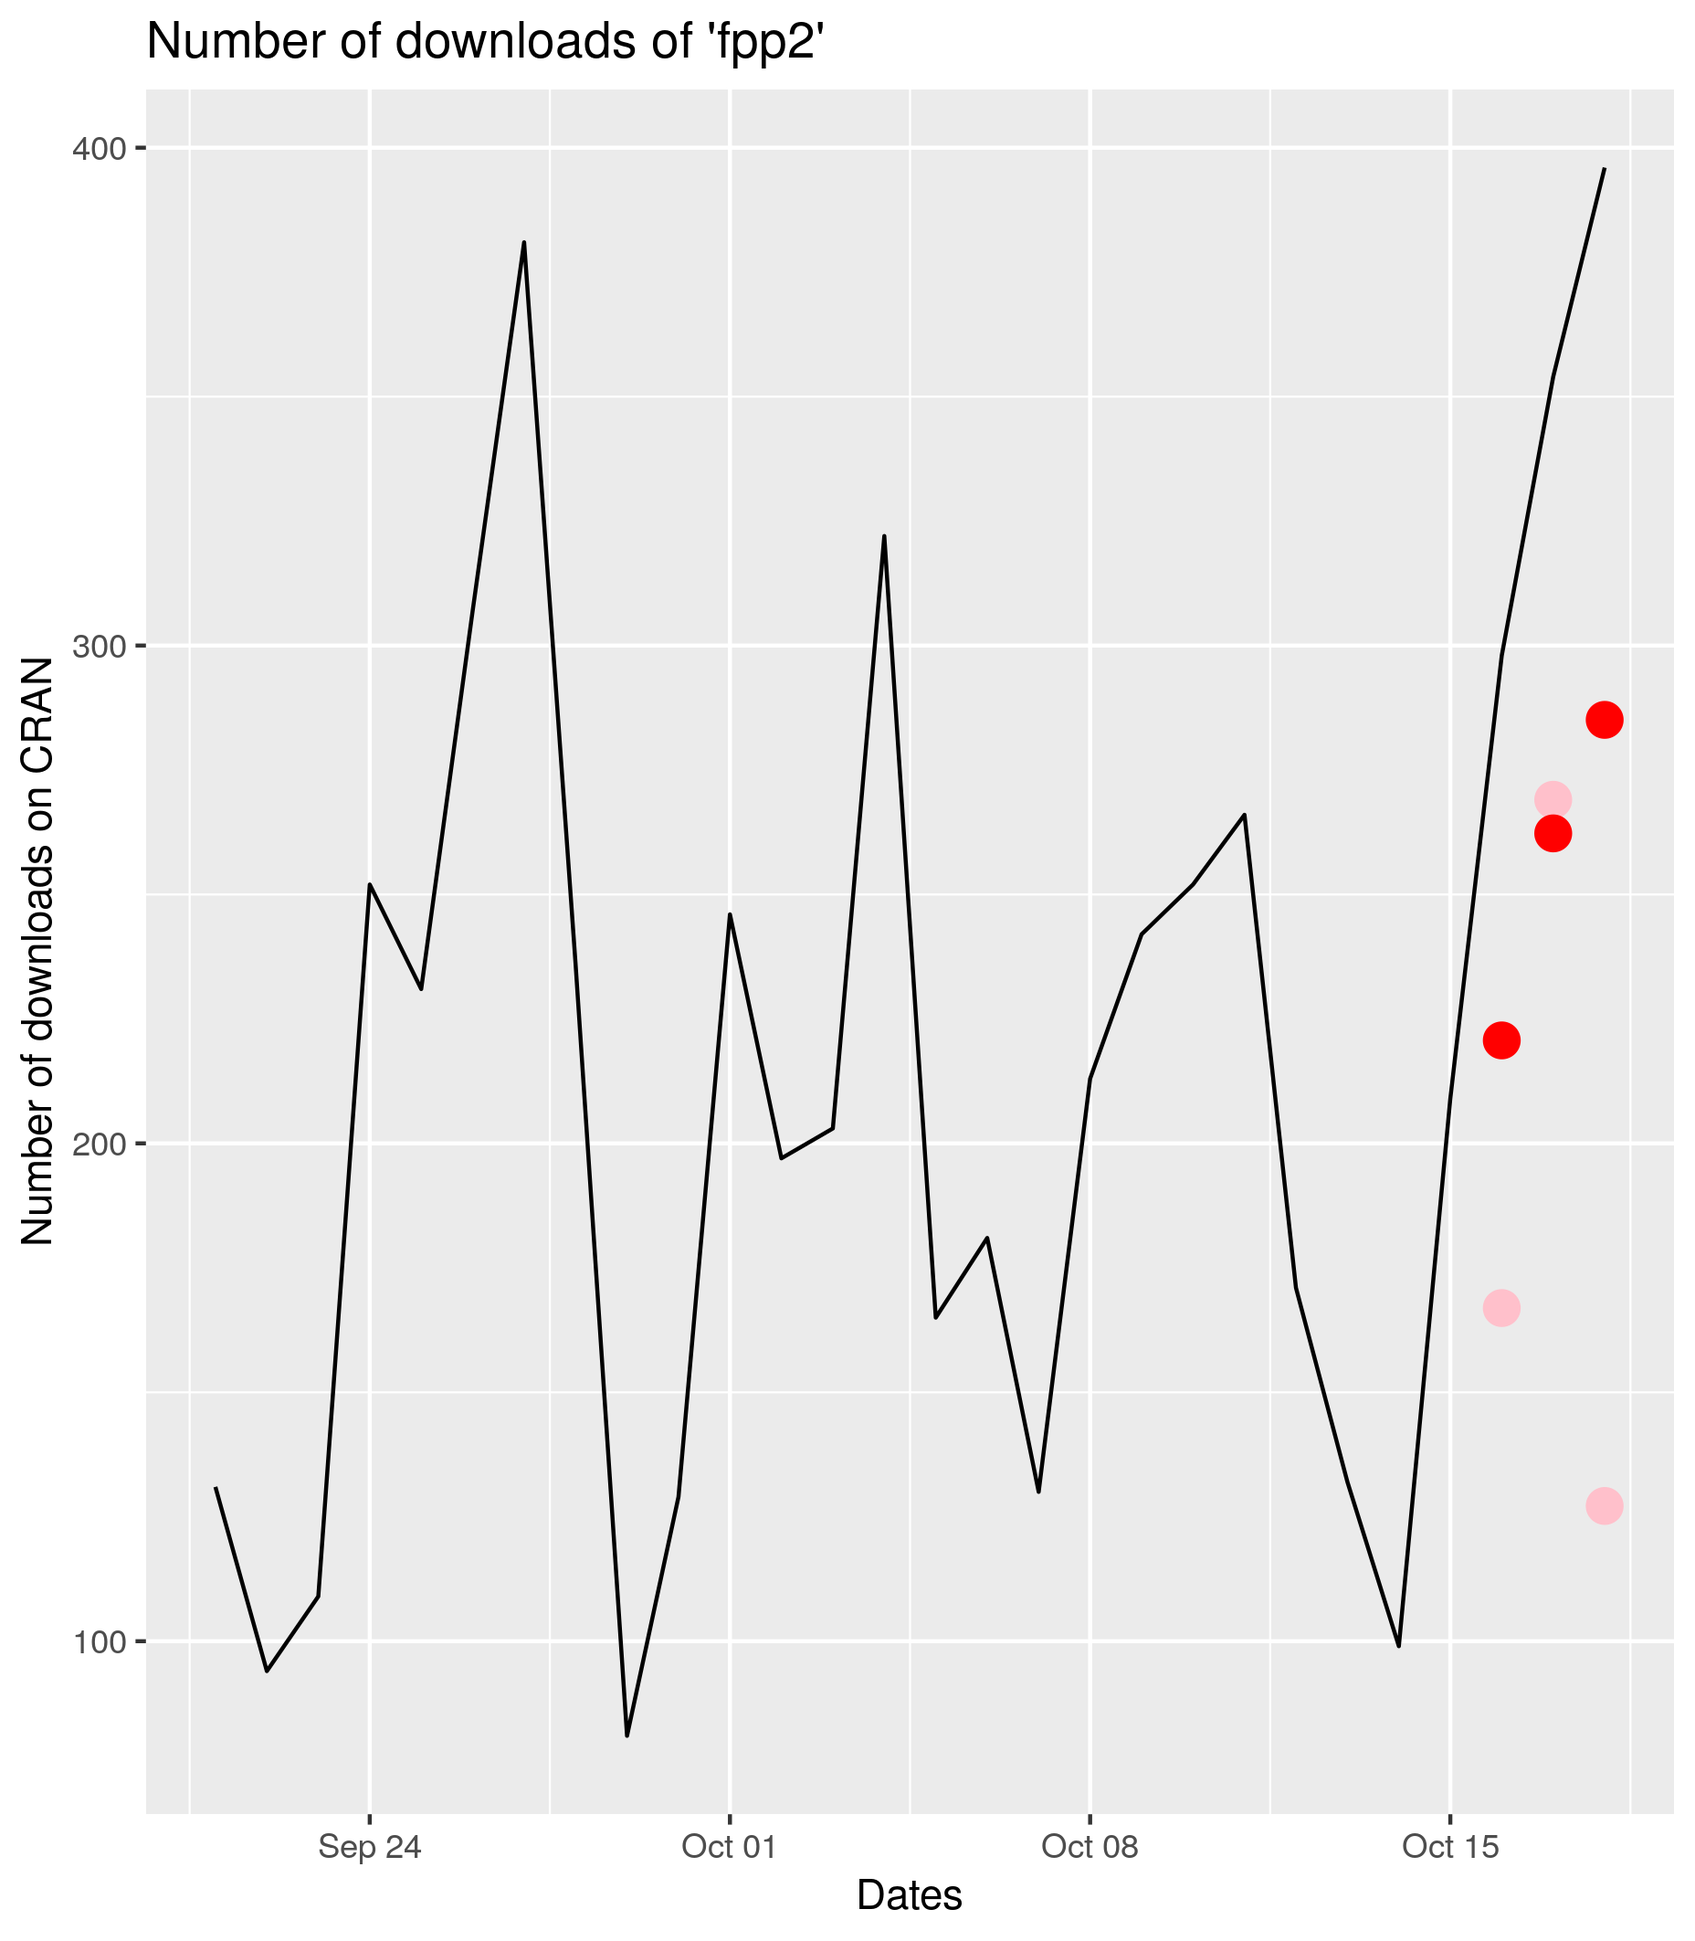
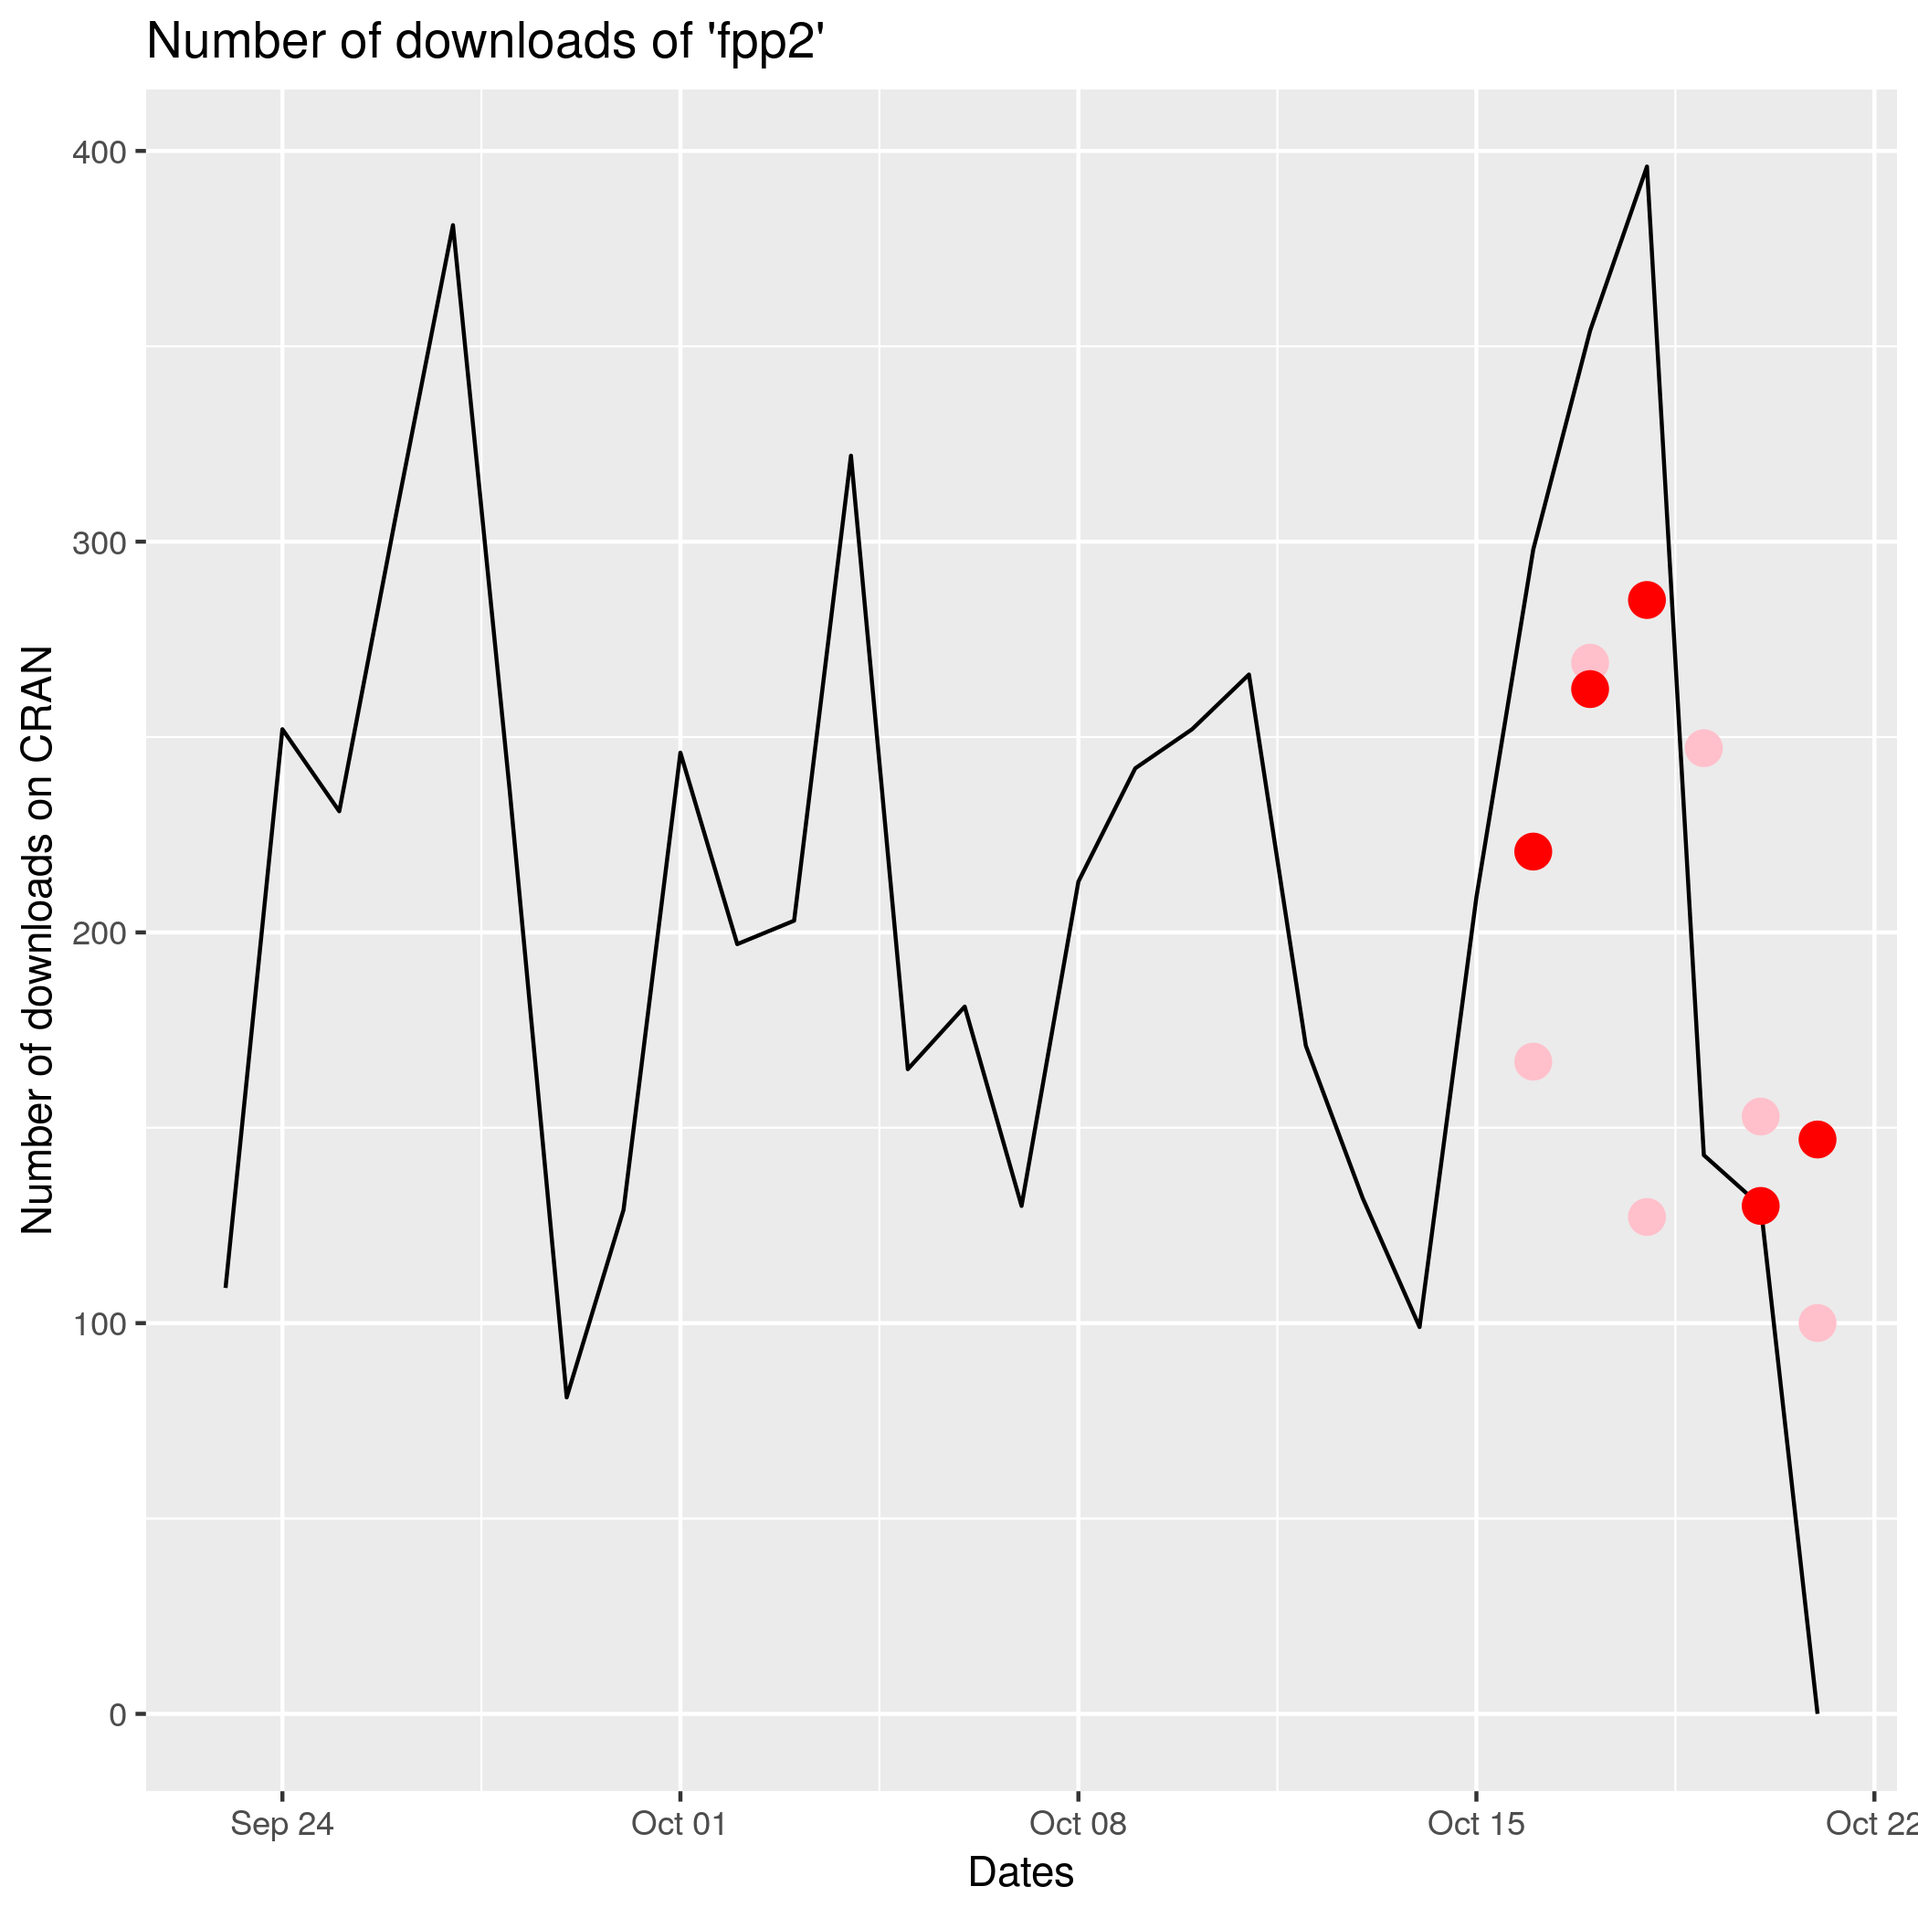
update forecast

diff --git a/content/_index.md b/content/_index.md
@@ -16,7 +16,3 @@ weight: 5
 > <cite> Mark Twain </cite>
 
 The objective of the website is to provide support for the *Forecasting* class given at the Faculty of Business and Economics (HEC Lausanne) of the University of Lausanne in Fall 2018. This course capitalizes on the knowledge acquired in the [Time Series and Forecasting](https://hec.unil.ch/hec/syllabus/descriptif/2286) class taught in Spring 2018. The students will not only learn different forecasting methods but also how to assess and combine them. The accent is made on practical situations and students will face live forecasting experiences. Upon the completion of this course, students will have an overview of the methodologies that can be employed for forecasting as well as a strong sense on how to interactively apply them to different problems while keeping track of the progress by documenting and making reports.
-
-{{% notice warning %}}
-<i class="fas fa-exclamation-triangle"></i> site under construction <i class="fas fa-exclamation-triangle"></i>
-{{% /notice %}}

diff --git a/content/case-studies/r-package.md b/content/case-studies/r-package.md
@@ -86,9 +86,9 @@ ggplot(fpp2, aes(x = date, y = count)) +
 You can notice peeks and zeros appearing. These questions will be addressed in a future
 lecture.
 
-### results (update 20.10.2018)
+### results (update 23.10.2018)
 
-<img src="https://raw.githubusercontent.com/SMAC-Group/fc2018_website/master/data/fpp2_2.png" alt="fpp22" width="400px"/> 
+<img src="https://raw.githubusercontent.com/SMAC-Group/fc2018_website/master/data/fpp2_3.png" alt="fpp22" width="400px"/> 
 
 Date | <span style="color:red">Max</span> | <span style="color:pink">Lumia</span>
 --- | --- | ---
@@ -97,5 +97,5 @@ Date | <span style="color:red">Max</span> | <span style="color:pink">Lumia</span
 18.10 | 110.93 | 268.83
 19.10 | $\emptyset$ | 104.14
 20.10 | 0.01 | 22.87
-
+21.10 | 147 | 100   
 Table: Absolute difference between forecast and realization.
